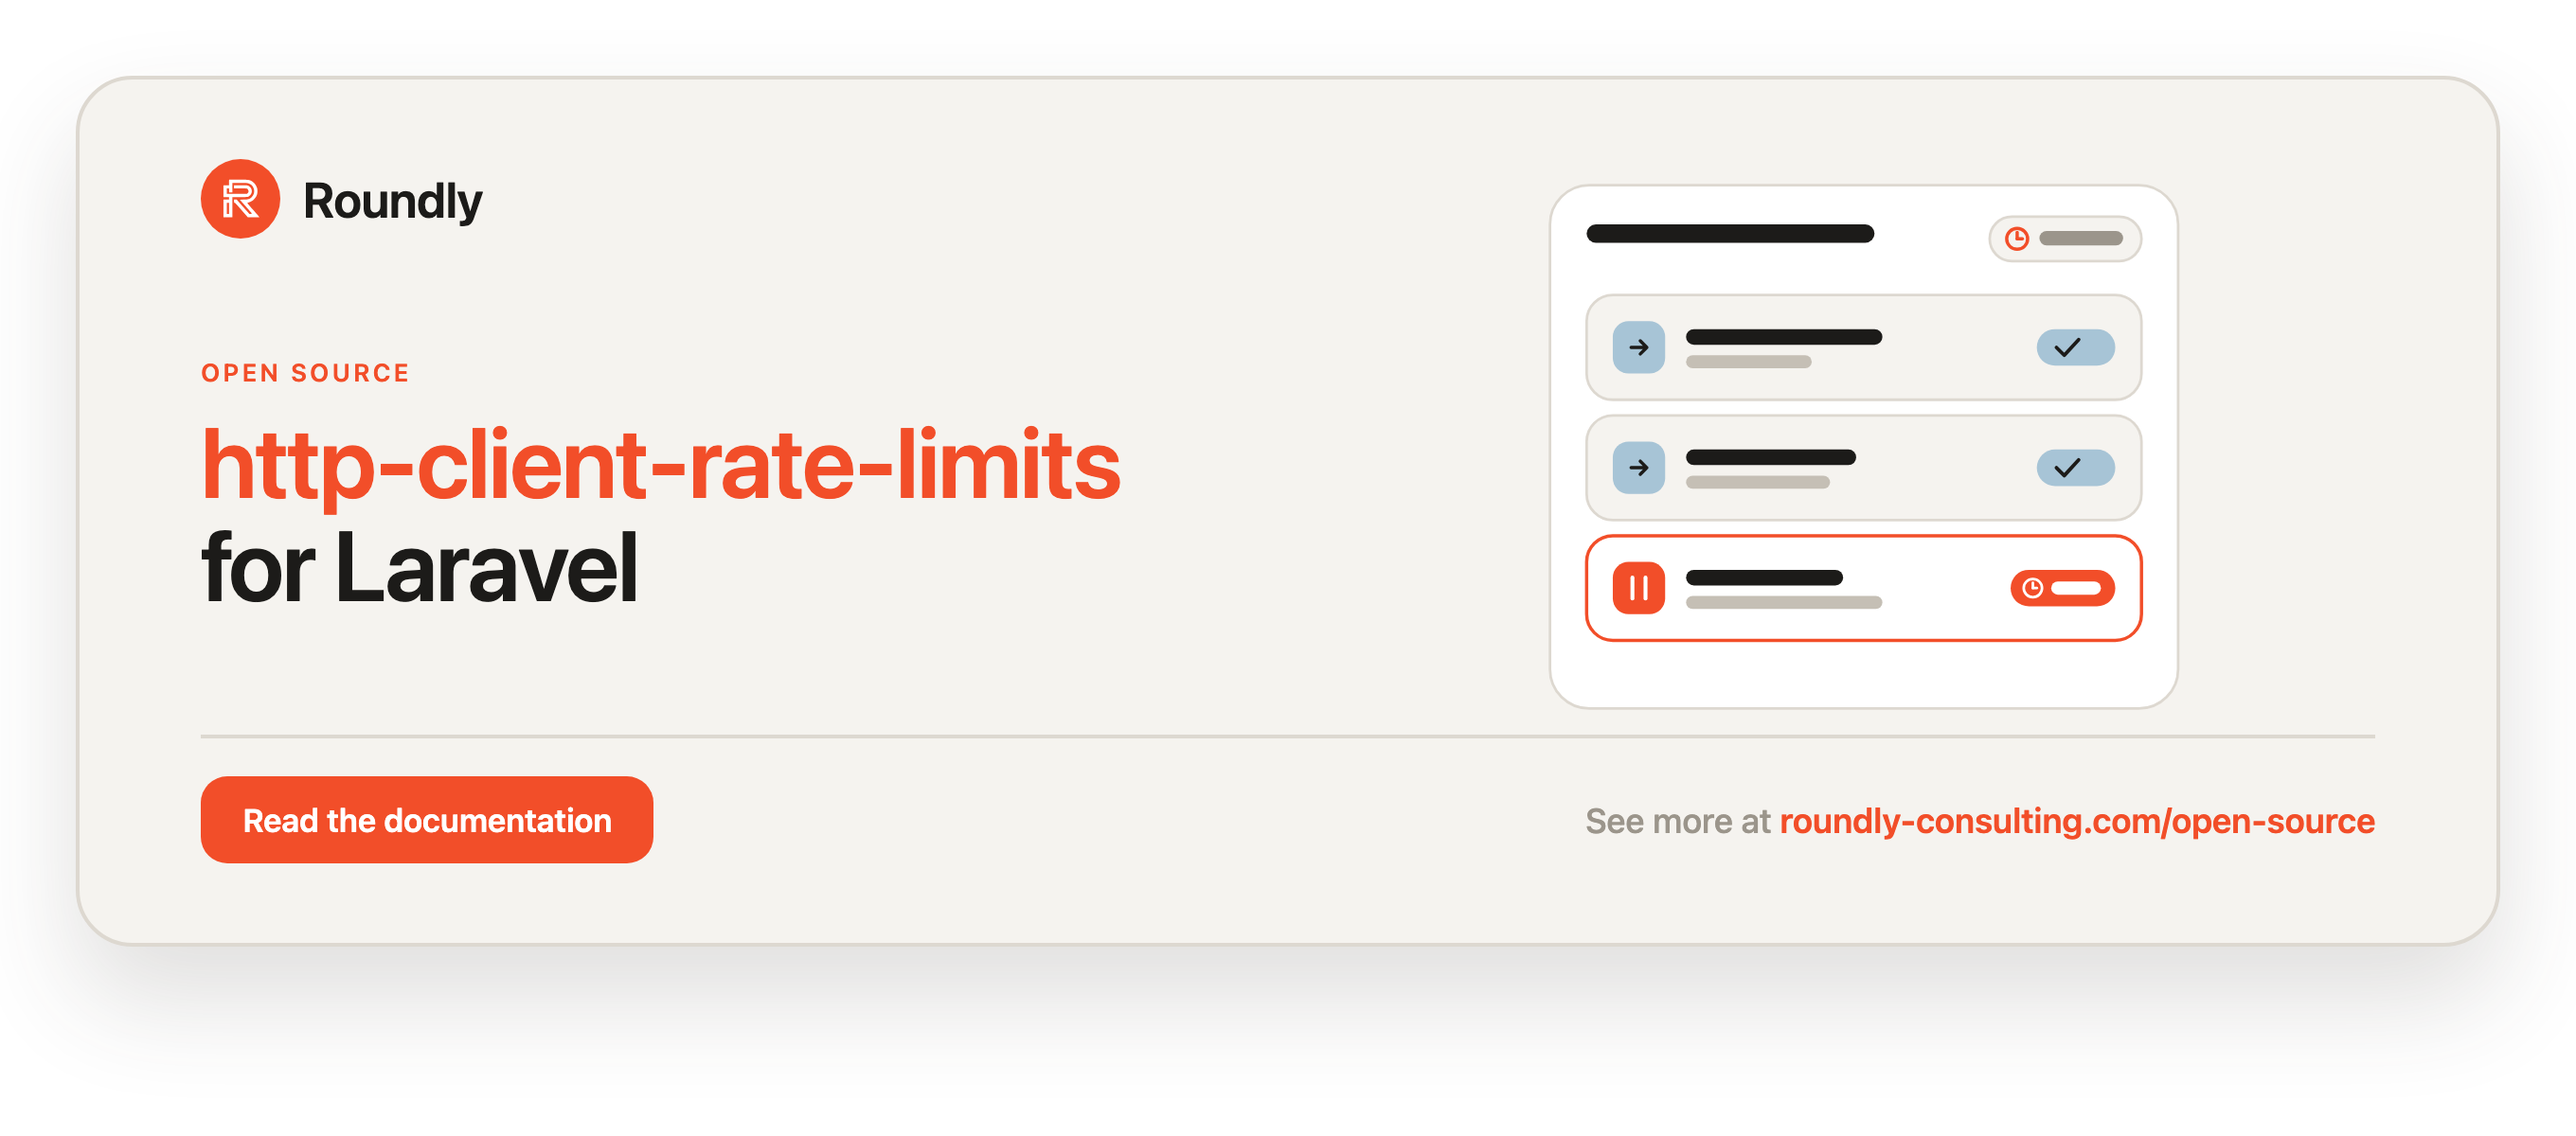
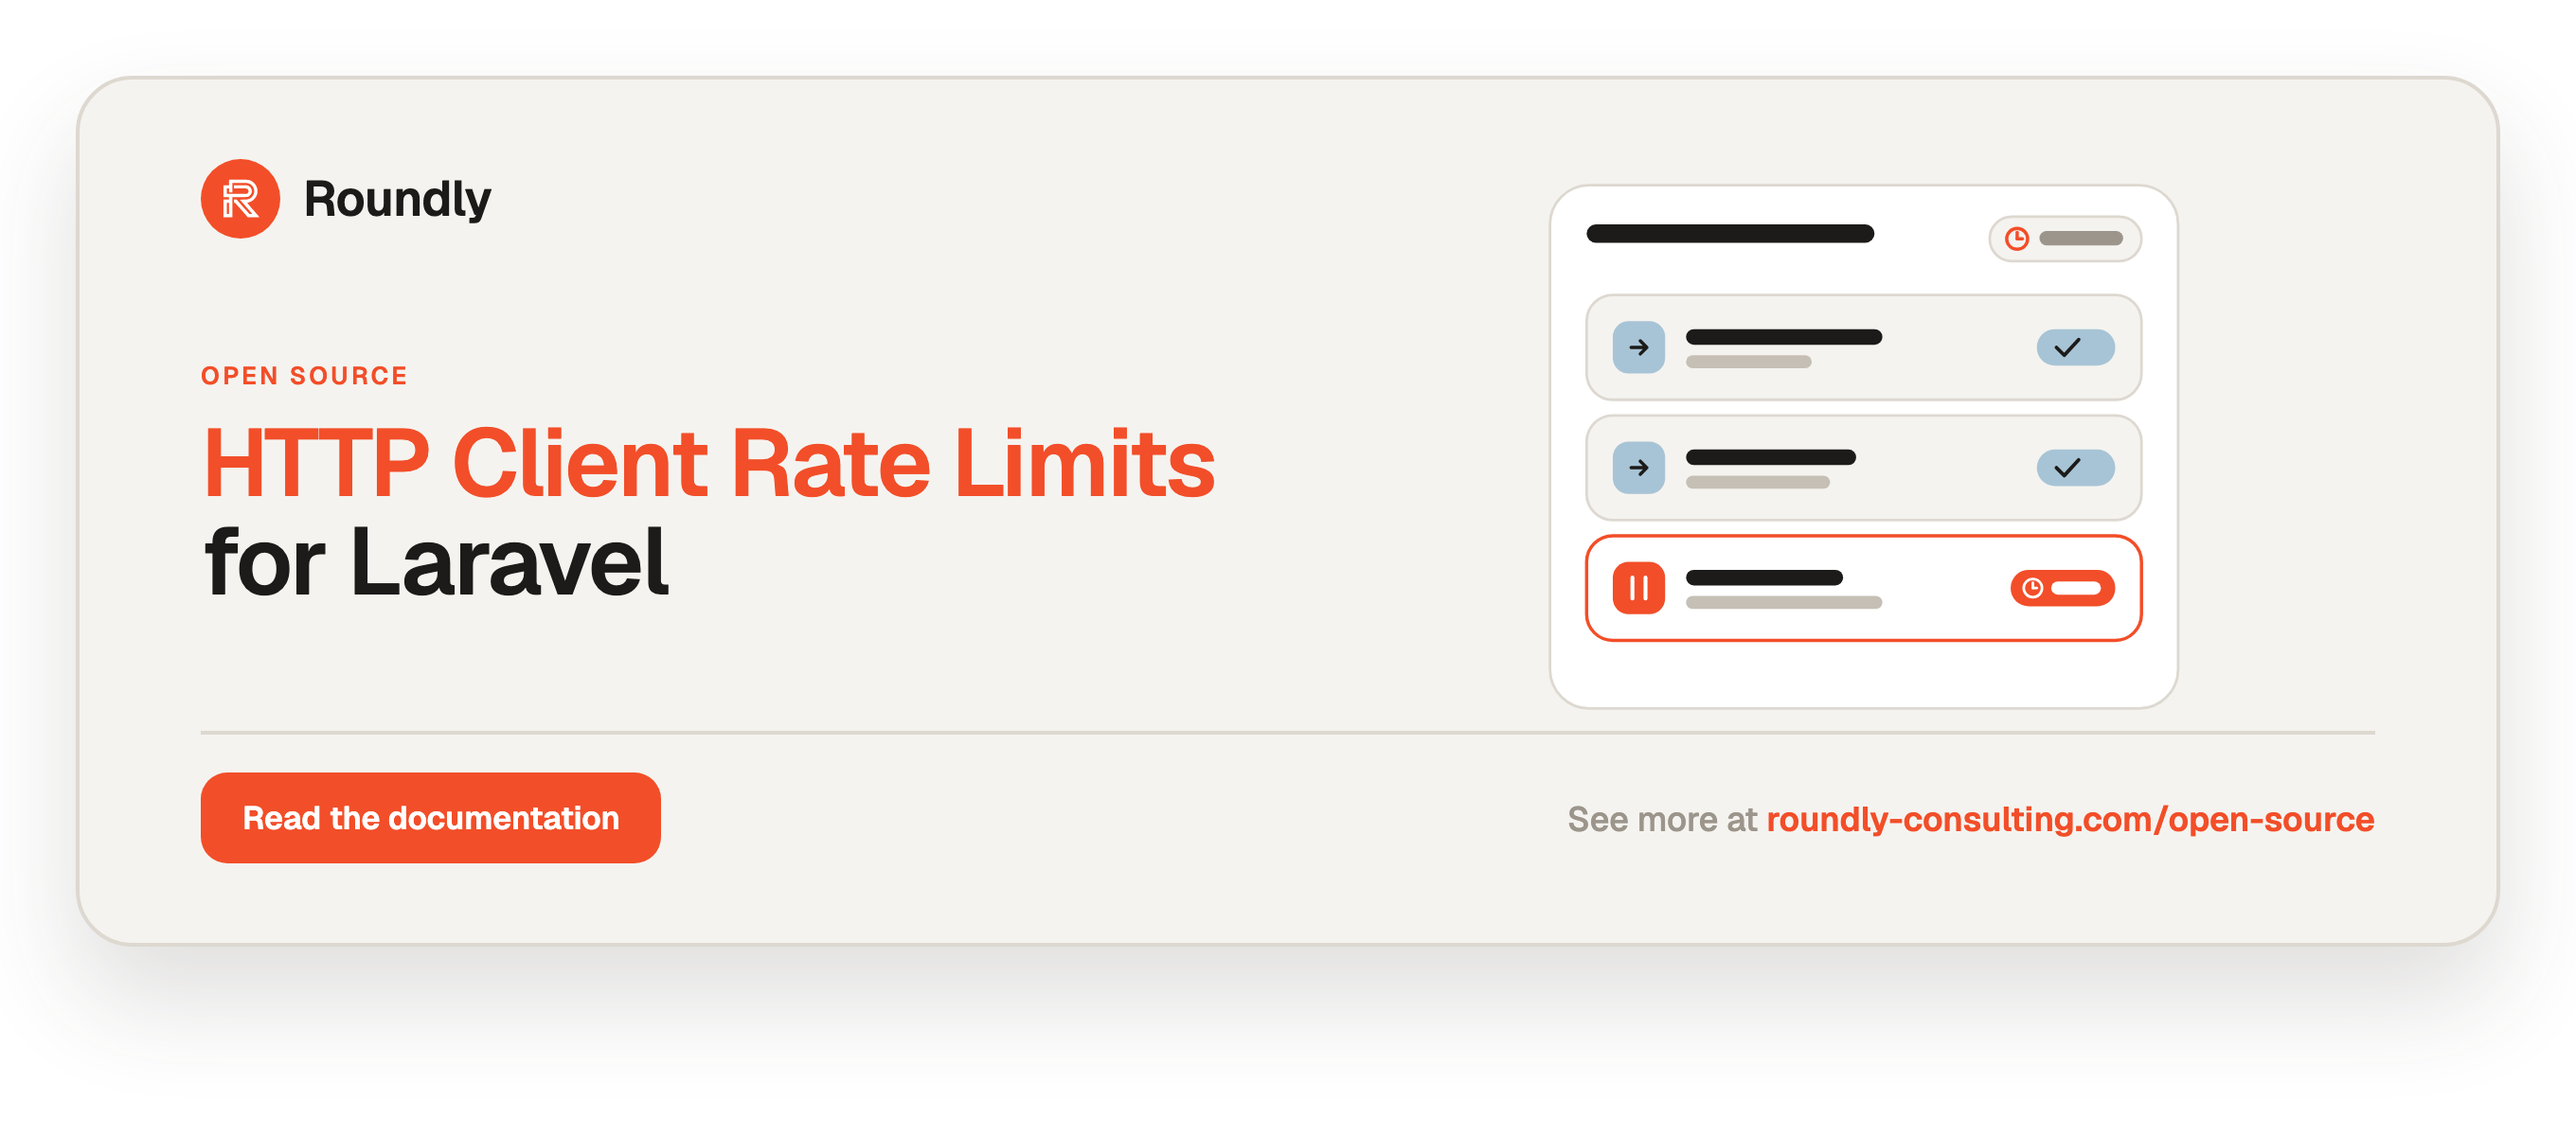
docs(art): put package name on one orange line

diff --git a/README.md b/README.md
@@ -1,7 +1,7 @@
 <!-- roundly-hero:start -->
 <p align="center">
   <a href="https://roundly-consulting.com/open-source/docs/http-client-rate-limits-for-laravel?utm_source=github&utm_medium=readme&utm_campaign=open-source&utm_content=http-client-rate-limits-for-laravel">
-    <img src="art/hero.png" alt="http-client-rate-limits for Laravel — Roundly open source" width="100%">
+    <img src="art/hero.png" alt="HTTP Client Rate Limits for Laravel — Roundly open source" width="100%">
   </a>
 </p>
 <!-- roundly-hero:end -->
